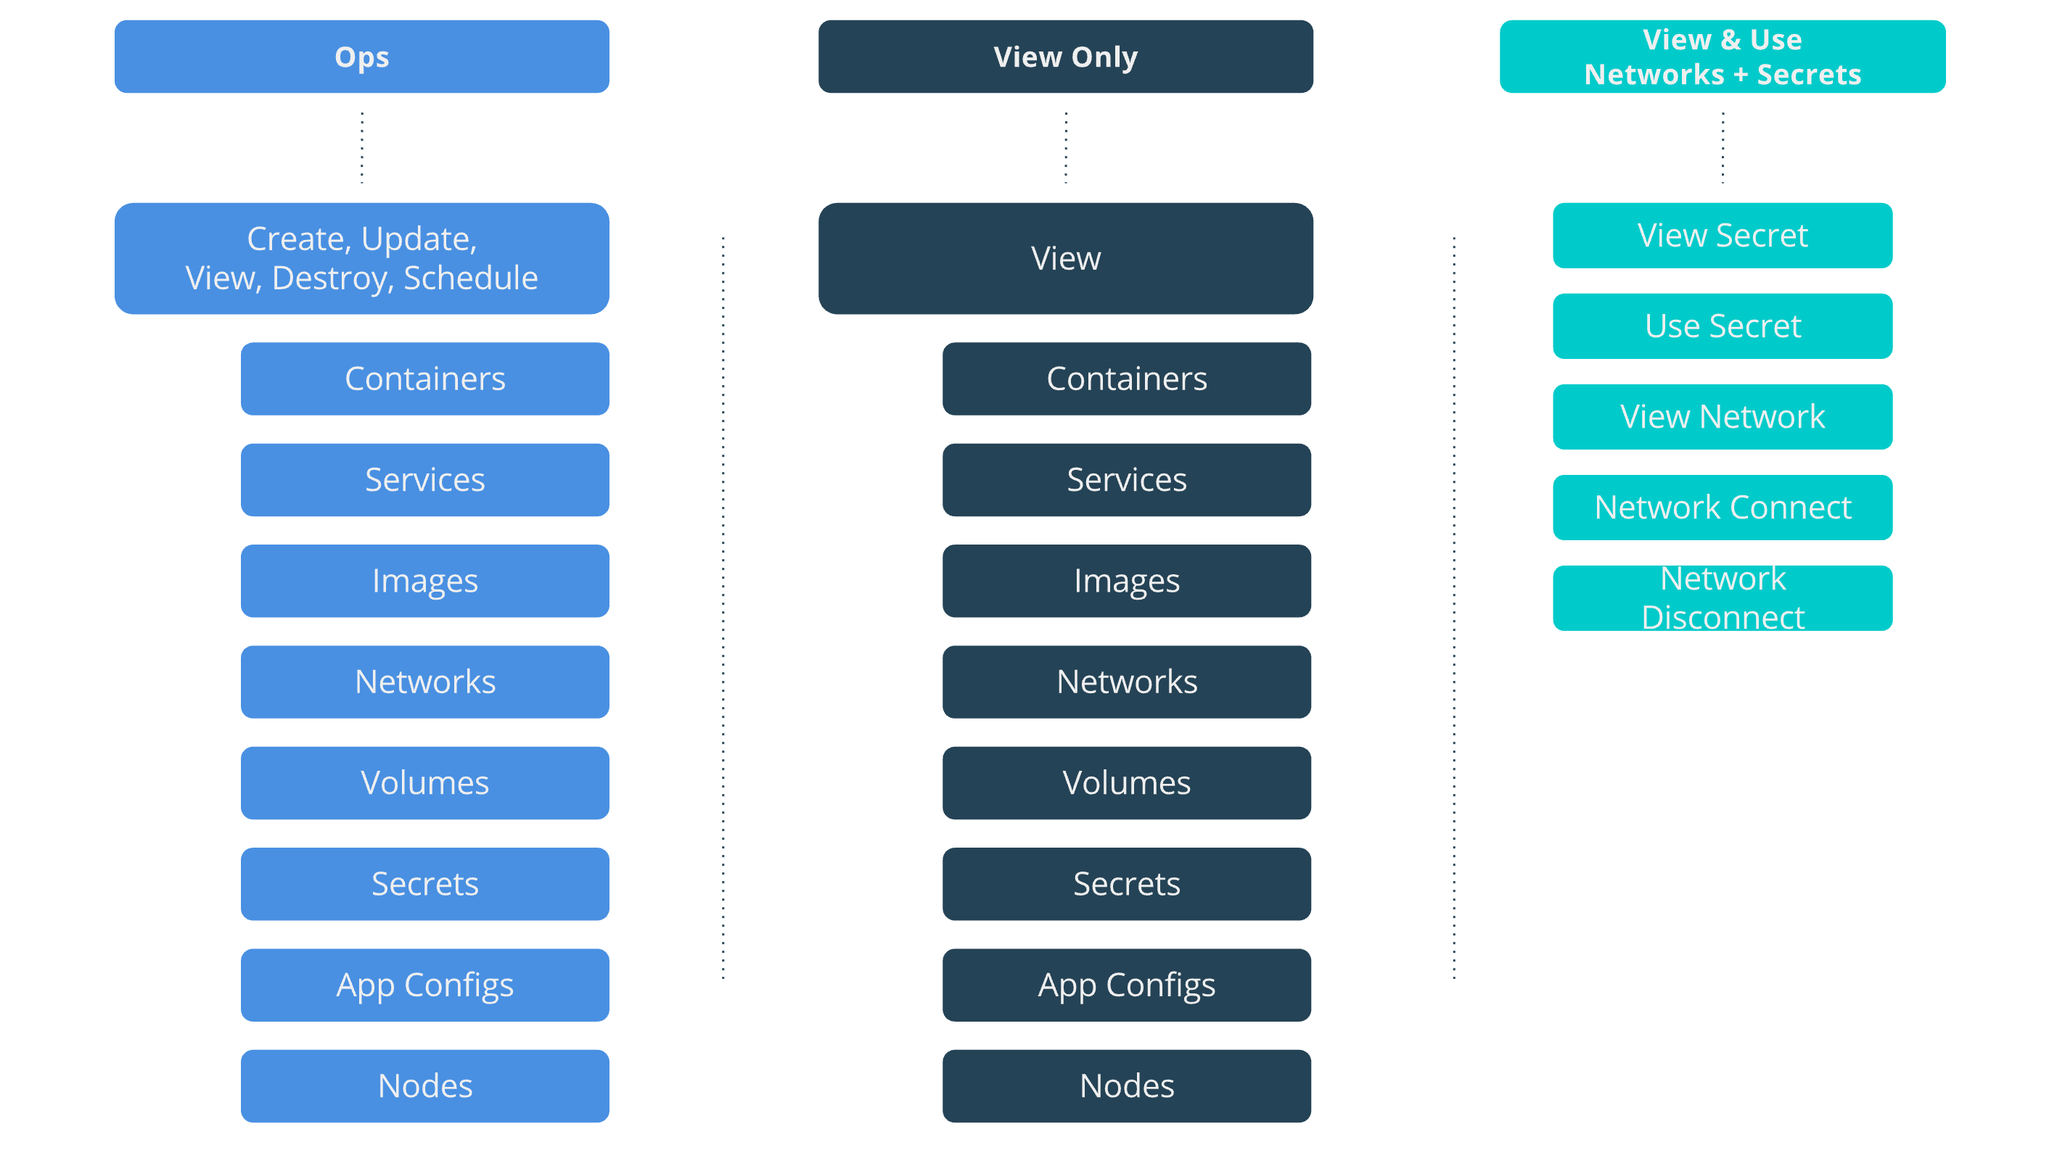
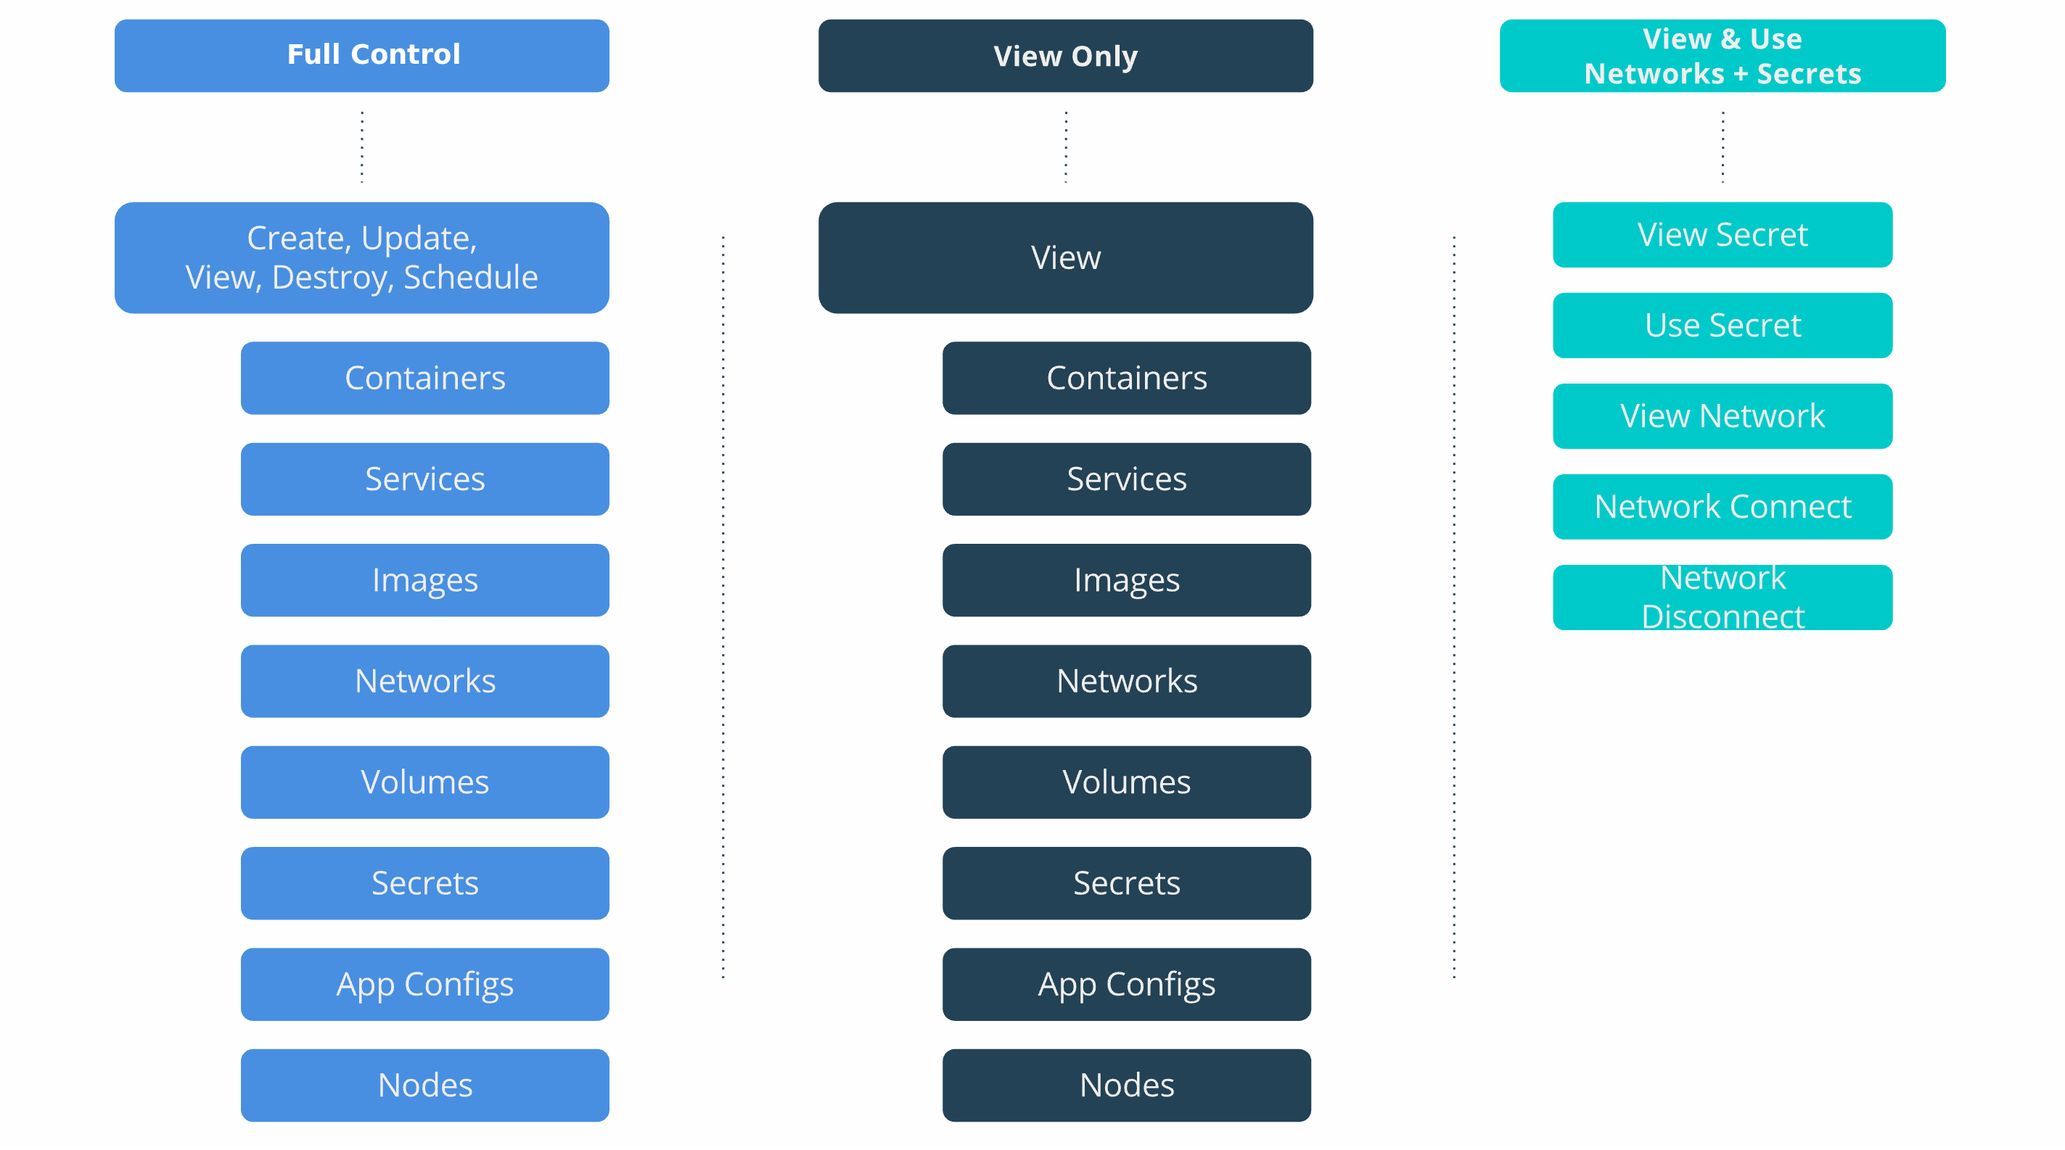
Tighten OrcaBank tutorial; Update image (#294)

diff --git a/deploy/access-control/access-control-design-ee-advanced.md b/deploy/access-control/access-control-design-ee-advanced.md
@@ -18,85 +18,95 @@ ui_tabs:
 This topic is under construction.
 
 {% elsif include.version=="ucp-2.2" %}
-[Collections and grants](index.md) are strong tools that can be used to control
-access and visibility to resources in UCP.
-
 The previous tutorial, [Access Control Design with Docker EE
-Standard](access-control-design-ee-standard.md), describes a fictional company
-called OrcaBank that has designed a resource access architecture that fits the
-specific security needs of their organization. Be sure to go through this
-tutorial if you have not already before continuing.
+Standard](access-control-design-ee-standard.md), explains how the fictional
+company, OrcaBank, designed an architecture with role-based access control
+(RBAC) to fit the specific security needs of their organization. OrcaBank used
+the ability to assign multiple grants to control access to resources across
+collection boundaries.
 
-In this tutorial, OrcaBank's deployment model adds a staging zone. Instead of
-moving developed applications directly in to production, OrcaBank now deploys
-apps from their dev cluster to staging for testing before deploying to
-production. OrcaBank has very stringent security requirements for production
-applications. Its security team recently read a blog post about DevSecOps and is
-excited to implement some changes. Production applications aren't permitted to
-share any physical infrastructure with non-Production infrastructure.
+Go through the [first OrcaBank tutorial](access-control-design-ee-standard.md),
+before continuing.
 
-In this tutorial OrcaBank uses Docker EE Advanced features to segment the
-scheduling and access control of applications across disparate physical
-infrastructure. [Node Access Control](access-control-node.md) with EE Advanced
-licensing allows nodes to be placed in different collections so that resources
-can be scheduled and isolated on disparate physical or virtual hardware
-resources.
+In this tutorial, OrcaBank implements their new stringent security requirements
+for production applications:
+
+First, OrcaBank adds a staging zone to their deployment model. They no longer
+move developed applications directly in to production. Instead, they deploy apps
+from their dev cluster to staging for testing, and then to production.
+
+Second, production applications are no longer permitted to share any physical
+infrastructure with non-production infrastructure. Here, OrcaBank segments the
+scheduling and access of applications with [Node Access Control](access-control-node.md).
+
+> [Node Access Control](access-control-node.md) is a feature of Docker EE
+> Advanced and provides secure multi-tenancy with node-based isolation. Nodes
+> can be placed in different collections so that resources can be scheduled and
+> isolated on disparate physical or virtual hardware resources.
 
 ## Team access requirements
 
-As in the [Introductory Multitenancy Tutorial](access-control-design-ee-standard.md)
-OrcaBank still has three application teams, `payments`, `mobile`, and `db` that
-need to have varying levels of segmentation between them. Their upcoming Access
-Control redesign will organize their UCP cluster in to two top-level collections,
-Staging and Production, which will be completely separate security zones on
-separate physical infrastructure.
+OrcaBank still has three application teams, `payments`, `mobile`, and `db` with
+varying levels of segmentation between them.
 
-- `security` should have visibility-only access across all
-  applications that are in Production. The security team is not
-  concerned with Staging applications and thus will not have
-  access to Staging
-- `db` should have the full set of operations against all database
-  applications that are in Production. `db` does not manage the
-  databases that are in Staging, which are managed directly by the
-  application teams.
-- `payments` should have the full set of operations to deploy Payments
-  apps in both Production and Staging and also access some of the shared
-  services provided by the `db` team.
-- `mobile` has the same rights as the `payments` team, with respect to the
-  Mobile applications.
+Their RBAC redesign organizes their UCP cluster into two top-level collections,
+staging and production, which are completely separate security zones on separate
+physical infrastructure.
+
+OrcaBank's four teams now have different needs in production and staging:
+
+- `security` should have view-only access to all applications in production (but
+  not staging).
+- `db` should have full access to all database applications and resources in
+  production (but not staging). See [DB Team](#db-team).
+- `mobile` should have full access to their Mobile applications in both
+  production and staging and limited access to shared `db` services. See
+  [Mobile Team](#mobile-team).
+- `payments` should have full access to their Payments applications in both
+  production and staging and limited access to shared `db` services.
 
 ## Role composition
 
-OrcaBank will use the same roles as in the Introductory Tutorial. An `ops` role
-will provide them with the ability to deploy, destroy, and view any kind of
-resource. `View Only` will be used by the security team to only view resources
-with no edit rights. `View & Use Networks + Secrets` will be used to access
-shared resources across collection boundaries, such as the `db` services that
-are offered by the `db` collection to the other app teams.
+OrcaBank has decided to replace their custom `Ops` role with the built-in
+`Full Control` role.
+
+- `View Only` (default role) allows users to see but not edit all Swarm
+  resources.
+- `View & Use Networks + Secrets` (custom role) enables users to connect to
+  networks and use secrets used by `db` containers, but prevents them from
+  seeing or impacting the `db` applications themselves.
+- `Full Control` (default role) allows users to view and edit volumes, networks,
+  and images. They can also create containers without restriction but cannot see
+  the containers of other users.
 
 ![image](../images/design-access-control-adv-0.png){: .with-border}
 
-
 ## Collection architecture
 
-The previous tutorial had separate collections for each application team.
-In this Access Control redesign there will be collections for each zone,
-Staging and Production, and also collections within each zone for the
-individual applications. Another major change is that Docker nodes will be
-segmented themselves so that nodes in Staging are separate from Production
-nodes. Within the Production zone every application will also have their own
-dedicated nodes.
+In the previous tutorial, OrcaBank created separate collections for each
+application team and nested them all under `/Shared`.
 
-The resulting collection architecture takes the following tree representation:
+To meet their new security requirements for production, OrcaBank is redesigning
+collections in two ways:
+
+- Adding collections for both the production and staging zones, and nesting a
+  set of application collections under each.
+- Segmenting nodes. Both the production and staging zones will have dedicated
+  nodes; and in production, each application will be on a dedicated node.
+
+The collection architecture now has the following tree representation:
 
 ```
 /
 ├── System
 ├── Shared
 ├── prod
-│   ├── db
 │   ├── mobile
-│   └── payments
+│   ├── payments
+│   └── db
+│       ├── mobile
+│       └── payments
+|
 └── staging
     ├── mobile
     └── payments
@@ -104,28 +114,30 @@ The resulting collection architecture takes the following tree representation:
 
 ## Grant composition
 
-OrcaBank will now be granting teams diverse roles to different collections.
-Multiple grants per team are required to grant this kind of access. Each of
-the Payments and Mobile applications will have three grants that give them the
-operation to deploy in their production zone, their staging zone, and also the
-ability to share some resources with the `db` collection.
+OrcaBank must now diversify their grants further to ensure the proper division
+of access.
+
+The payments and mobile applications teams will have three grants each--one for
+deploying to production, one for deploying to staging, and the same grant to
+access shared `db` networks and secrets.
 
 ![image](../images/design-access-control-adv-grant-composition.png){: .with-border}
 
 ## OrcaBank access architecture
 
-The resulting access architecture provides the appropriate physical segmentation
-between Production and Staging. Applications will be scheduled only on the UCP
-Worker nodes in the collection where the application is placed. The production
-Mobile and Payments applications use shared resources across collection
-boundaries to access the databases in the `/prod/db` collection.
+The resulting access architecture, desgined with Docker EE Advanced, provides
+physical segmentation between production and staging using node access control.
+
+Applications are scheduled only on UCP worker nodes in the dedicated application
+collection. And applications use shared resources across collection boundaries
+to access the databases in the `/prod/db` collection.
 
 ![image](../images/design-access-control-adv-architecture.png){: .with-border}
 
 ### DB team
 
 The OrcaBank `db` team is responsible for deploying and managing the full
-lifecycle of the databases that are in Production. They have the full set of
+lifecycle of the databases that are in production. They have the full set of
 operations against all database resources.
 
 ![image](../images/design-access-control-adv-db.png){: .with-border}
@@ -133,8 +145,8 @@ operations against all database resources.
 ### Mobile team
 
 The `mobile` team is responsible for deploying their full application stack in
-staging. In production they deploy their own applications but utilize the
-databases that are provided by the `db` team.
+staging. In production they deploy their own applications but use the databases
+that are provided by the `db` team.
 
 ![image](../images/design-access-control-adv-mobile.png){: .with-border}
 

diff --git a/deploy/access-control/access-control-design-ee-standard.md b/deploy/access-control/access-control-design-ee-standard.md
@@ -18,104 +18,119 @@ This topic is under construction.
 {% elsif include.version=="ucp-2.2" %}
 
 [Collections and grants](index.md) are strong tools that can be used to control
-access and visibility to resources in UCP. This tutorial describes a fictitious
-company named OrcaBank that is designing the access architecture for two
-application teams that they have, Payments and Mobile.
+access and visibility to resources in UCP.
 
-This tutorial introduces many concepts include collections, grants, centralized
-LDAP/AD, and also the ability for resources to be shared between different teams
-and across collections.
+This tutorial describes a fictitious company named OrcaBank that is designing an
+architecture with role-based access control (RBAC) for their application
+engineering group.
 
 ## Team access requirements
 
-OrcaBank has organized their application teams to specialize more and provide
-shared services to other applications. A `db` team was created just to manage
-the databases that other applications will utilize. Additionally, OrcaBank
-recently read a book about DevOps. They have decided that developers should be
-able to deploy and manage the lifecycle of their own applications.
+OrcaBank has organized their application teams by specialty with each team
+providing shared services to other applications. Developers do their own DevOps
+and deploy and manage the lifecycle of their applications.
 
-- `security` should have visibility-only access across all applications in the
-  swarm.
-- `db` should have the full set of capabilities against all database
-  applications and their respective resources.
-- `payments` should have the full set of capabilities to deploy Payments apps
-  and also access some of the shared services provided by the `db` team.
-- `mobile` has the same rights as the `payments` team, with respect to the
-  Mobile applications.
+OrcaBank has four teams with the following needs:
+
+- `security` should have view-only access to all applications in the swarm.
+- `db` should have full access to all database applications and resources. See
+  [DB Team](#db-team).
+- `mobile` should have full access to their Mobile applications and limited
+  access to shared `db` services. See [Mobile Team](#mobile-team).
+- `payments` should have full access to their Payments applications and limited
+  access to shared `db` services.
 
 ## Role composition
 
-OrcaBank will use a combination of default and custom roles, roles which they
-have created specifically for their use case. They are using the default
-`View Only` role to provide security access to only see but not edit resources.
-There is an `ops` role that they created which can do almost all operations
-against all types of resources.  They also created the
-`View & Use Networks + Secrets` role. This type of role will enable application
-DevOps teams to use shared resources provided by other teams. It will enable
-applications to connect to networks and use secrets that will also be used by
-`db` containers, but not the ability to see or impact the `db` applications
-themselves.
+To assign the proper access, OrcaBank is configuring a combination of default
+and custom roles:
+
+- `View Only` (default role) allows users to see but not edit all Swarm
+  resources.
+- `View & Use Networks + Secrets` (custom role) enables users to connect to
+  networks and use secrets used by `db` containers, but prevents them from
+  seeing or impacting the `db` applications themselves.
+- `Ops` (custom role) allows users to do almost all operations against all types
+  of resources.
 
 ![image](../images/design-access-control-adv-0.png){: .with-border}
 
 ## Collection architecture
 
-OrcaBank will also create some collections that fit the organizational structure
-of the company. Since all applications will share the same physical resources,
-all nodes and applications are built in to collections underneath the `/Shared`
-built-in collection.
+OrcaBank is also creating collections that fit their team structure.
 
-- `/Shared/payments` hosts all applications and resources for the Payments
-  applications.
-- `/Shared/mobile` hosts all applications and resources for the Mobile
-  applications.
+In their case, all applications share the same physical resources, so all nodes
+and applications are being put into collections that nest under the built-in
+collection, `/Shared`.
 
-Some other collections will be created to enable the shared `db` applications.
+- `/Shared/mobile` hosts all Mobile applications and resources.
+- `/Shared/payments` hosts all Payments applications and resources.
 
-- `/Shared/db` will be a top-level collection for all `db` resources.
-- `/Shared/db/payments` will be specifically for `db` resources providing
-  service to the Payments applications.
-- `/Shared/db/mobile` will do the same for the Mobile applications.
+> For Secure multi-tenancy with node-based isolation, use Docker Enterprise
+> Advanced. We cover this scenario in the [next tutorial](#).
 
-The following grant composition will show that this collection architecture
-allows an app team to access shared `db` resources without providing access
-to _all_ `db` resources. At the same time _all_ `db` resources will be managed
-by a single `db` team.
+Other collections were also created to enable shared `db` applications.
+
+- `/Shared/db` is a top-level collection for all `db` resources.
+- `/Shared/db/payments` is a collection of `db` resources for Payments applications.
+- `/Shared/db/mobile` is a collection of `db` resources for Mobile applications.
+
+The collection architecture has the following tree representation:
+
+```
+/
+├── System
+└── Shared
+    ├── mobile
+    ├── payments
+    └── db
+        ├── mobile
+        └── payments
+```
+
+
+OrcaBank's [Grant composition](#grant-composition) ensures that their collection
+architecture gives the `db` team access to _all_ `db` resources and  restricts
+app teams to _shared_ `db` resources.
 
 ## LDAP/AD integration
 
 OrcaBank has standardized on LDAP for centralized authentication to help their
-identity team scale across all the platforms they manage. As a result LDAP
-groups will be mapped directly to UCP teams using UCP's native LDAP/AD
-integration. As a result users can be added to or removed from UCP teams via
-LDAP which can be managed centrally by OrcaBank's identity team. The following
-grant composition shows how LDAP groups are mapped to UCP teams .
+identity team scale across all the platforms they manage.
+
+To implement LDAP authenticaiton in UCP, OrcaBank is using UCP's native LDAP/AD
+integration to map LDAP groups directly to UCP teams. Users can be added to or
+removed from UCP teams via LDAP which can be managed centrally by OrcaBank's
+identity team.
+
+The following grant composition shows how LDAP groups are mapped to UCP teams.
 
 ## Grant composition
 
-Two grants are applied for each application team, allowing each team to fully
-manage their own apps in their collection, but also have limited access against
-networks and secrets within the `db` collection. This kind of grant composition
-provides flexibility to have different roles against different groups of
-resources.
+OrcaBank is taking advantage of the flexibility in UCP's grant model by applying
+two grants to each application team. One grant allows each team to fully
+manage the apps in their own collection, and the second grant gives them the
+(limited) access they need to networks and secrets within the `db` collection.
 
 ![image](../images/design-access-control-adv-1.png){: .with-border}
 
 ## OrcaBank access architecture
 
-The resulting access architecture shows applications connecting across
-collection boundaries. Multiple grants per team allow Mobile applications and
-Databases to connect to the same networks and use the same secrets so they can
-securely connect with each other but through a secure and controlled interface.
-Note that these resources are still deployed across the same group of UCP
-worker nodes. Node segmentation is discussed in the [next tutorial](#).
+OrcaBank's resulting access architecture shows applications connecting across
+collection boundaries. By assigning multiple grants per team, the Mobile and
+Payments applications teams can connect to dedicated Database resources through
+a secure and controlled interface, leveraging Database networks and secrets.
+
+> Note: Because this is Docker Enterprise Standard, all resources are deployed
+> across the same group of UCP worker nodes. Node segmentation is provided in
+> Docker Enterprise Advanced and discussed in the [next tutorial](#).
 
 ![image](../images/design-access-control-adv-2.png){: .with-border}
 
 ### DB team
 
 The `db` team is responsible for deploying and managing the full lifecycle
-of the databases used by the application teams. They have the full set of
+of the databases used by the application teams. They can execute the full set of
 operations against all database resources.
 
 ![image](../images/design-access-control-adv-3.png){: .with-border}
@@ -123,7 +138,7 @@ operations against all database resources.
 ### Mobile team
 
 The `mobile` team is responsible for deploying their own application stack,
-minus the database tier which is managed by the `db` team.
+minus the database tier that is managed by the `db` team.
 
 ![image](../images/design-access-control-adv-4.png){: .with-border}
 
